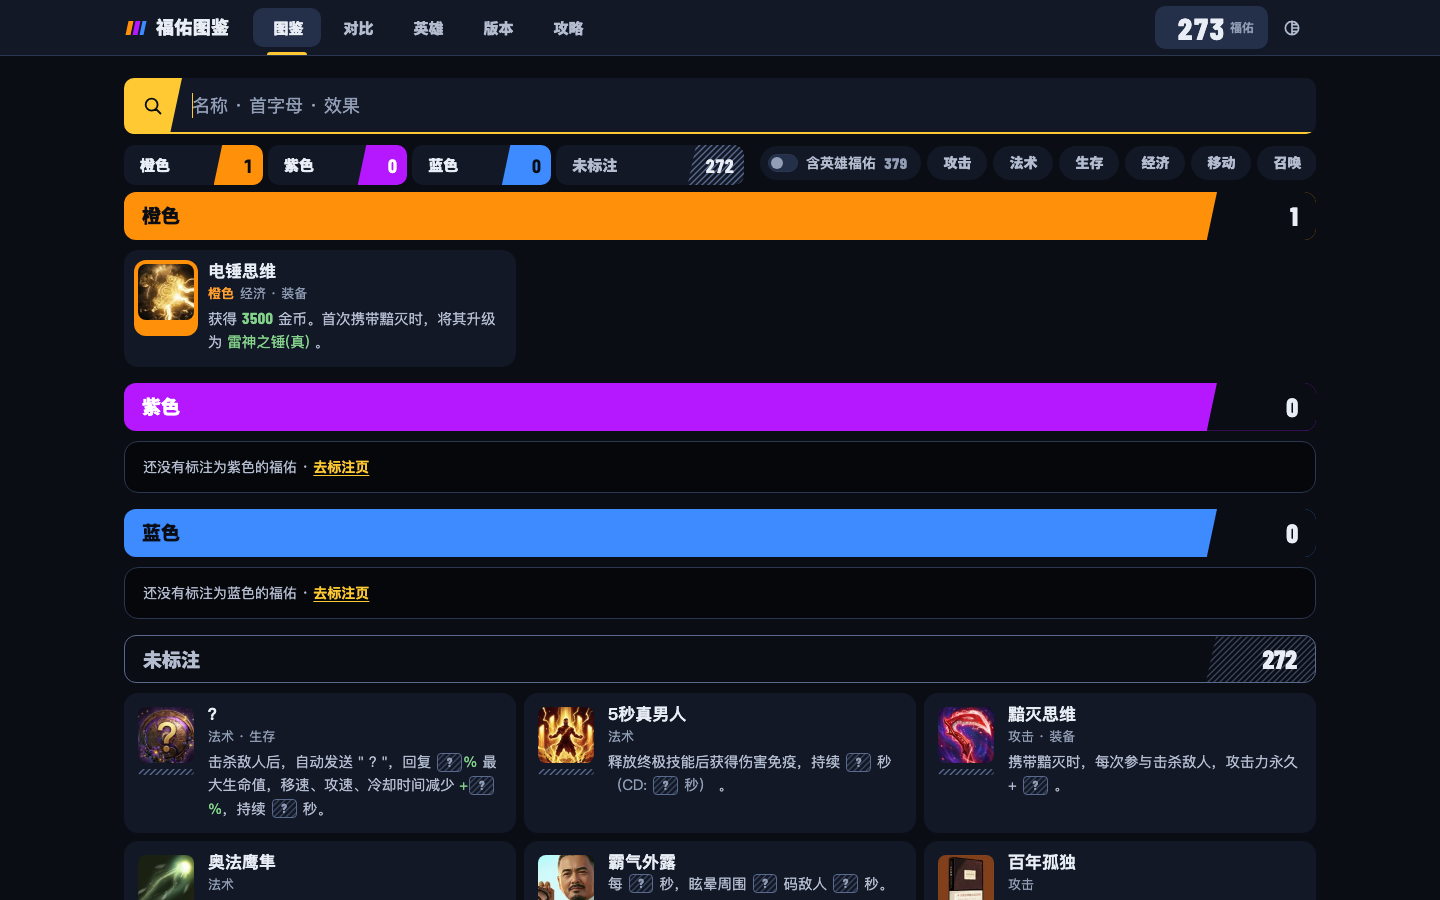
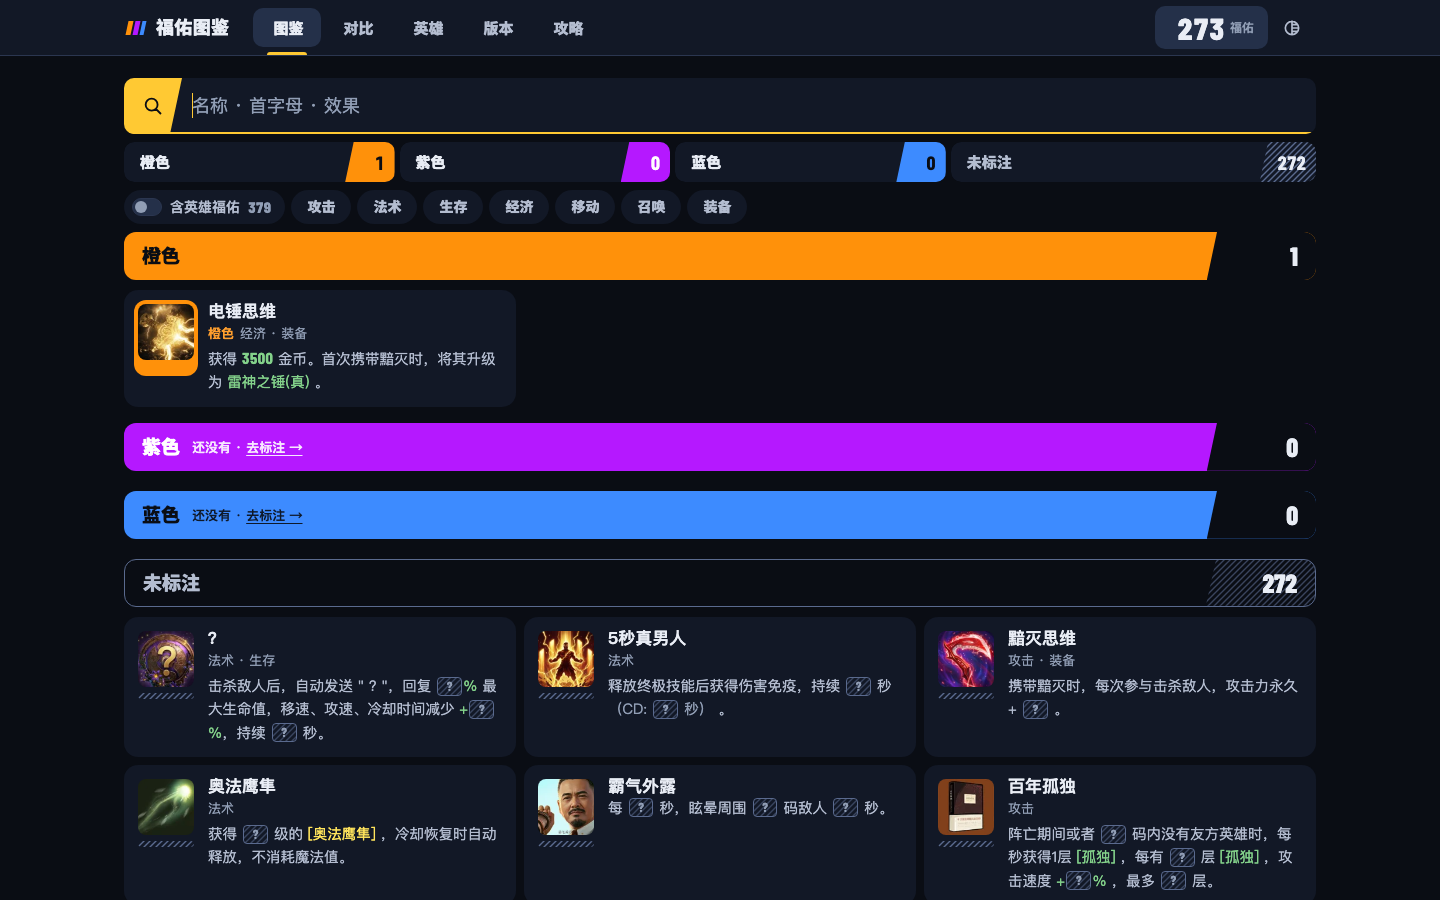
fix(ui): verdict batch — wrapping filter row, labeled locks, compact empty families, fold affordance
- Wide screens: tag strip wraps on its own row; nothing clips at 1024–1600.
- Compare: lock band shows the quality (team fill or hatched hollow) and its
  word (橙色 / 品质未标注); gold is only the stamp pill and outline.
- Empty quality families collapse to their header bar with an inline hint.
- 未标注 header shows 显示 30 / N with a chevron that expands the family.
- Recaptured review views, plus unlabeled-end, hero-toggle and
  hero-detail-lower captures.

diff --git a/src/styles/global.css b/src/styles/global.css
@@ -772,17 +772,13 @@ body {
   color: var(--on-gold);
   font-weight: 800;
 }
-/* Wide screens: team-bars and tag strip share one row across the content column. */
-@media (min-width: 1024px) {
-  .filters {
-    display: grid;
-    grid-template-columns: minmax(0, 620px) minmax(0, 1fr);
-    align-items: center;
-    gap: 0 16px;
-  }
-  .filters .tagstrip {
-    margin: 0;
-    padding: 4px 0 8px;
+/* Wide screens: nothing scrolls or clips; team-bars span the column, the strip wraps below. */
+@media (min-width: 721px) {
+  .tagstrip {
+    flex-wrap: wrap;
+    overflow: visible;
+    margin: 8px 0 0;
+    padding: 0 0 4px;
   }
 }
 
@@ -905,9 +901,6 @@ body {
   font-size: 19px;
   font-weight: 900;
 }
-.group-head span {
-  align-self: center;
-}
 /* The tally block keeps the 12° cap, inverse of the team color. */
 .group-head b {
   position: relative;
@@ -939,18 +932,43 @@ body {
   -webkit-mask: var(--hatch-mask) repeat;
   mask: var(--hatch-mask) repeat;
 }
+.group-name {
+  align-self: center;
+}
 .group-empty {
-  margin: 0;
-  padding: 14px 18px;
-  border-radius: 14px;
-  background: var(--hollow);
-  border: 1px solid var(--line);
-  color: var(--ink-2);
-  font-size: 14px;
+  align-self: center;
+  margin-left: 12px;
+  font-family: var(--font-body);
+  font-size: 13px;
+  font-weight: 700;
+  opacity: 0.9;
 }
 .group-empty a {
-  color: var(--gold-ink);
-  font-weight: 800;
+  color: inherit;
+  text-decoration-color: currentColor;
+}
+.group-fold {
+  align-self: center;
+  display: inline-flex;
+  align-items: center;
+  gap: 4px;
+  margin-left: 10px;
+  padding: 4px 8px 4px 10px;
+  border: 1px solid var(--line);
+  border-radius: 999px;
+  background: var(--panel);
+  color: var(--ink-2);
+  font: 700 13px var(--font-body);
+}
+.group-fold:hover {
+  color: var(--ink);
+  border-color: var(--ink-3);
+}
+.group-head b {
+  margin-left: auto;
+}
+.group-head:has(.group-empty:not([hidden])) {
+  margin-bottom: 0;
 }
 .slots > li[data-fold] {
   display: none;
@@ -1286,7 +1304,7 @@ body {
   position: absolute;
   inset: 0;
   z-index: -1;
-  background: var(--q, var(--gold));
+  background: var(--q, transparent);
   border-radius: 12px;
   visibility: hidden;
 }
@@ -1294,7 +1312,35 @@ body {
   visibility: visible;
 }
 .pick.is-locked .pick-head {
-  color: var(--on-q, var(--on-gold));
+  color: var(--on-q, var(--ink));
+  outline: 2px solid var(--gold);
+  outline-offset: 2px;
+  border-radius: 12px;
+}
+/* Unlabeled lock: the band is the hatched hollow, not a color that could read as a quality. */
+.pick:not([data-q]) .pick-lock {
+  border: 1px solid var(--hatch);
+}
+.pick:not([data-q]) .pick-lock::before {
+  content: '';
+  position: absolute;
+  inset: 0;
+  border-radius: 11px;
+  background: var(--hatch);
+  opacity: 0.7;
+  -webkit-mask: var(--hatch-mask) repeat;
+  mask: var(--hatch-mask) repeat;
+}
+.pick-quality {
+  font-size: 14px;
+  font-weight: 900;
+  white-space: nowrap;
+}
+.pick:not([data-q]) .pick-quality {
+  padding: 1px 8px;
+  border-radius: 6px;
+  background: var(--stage);
+  color: var(--ink);
 }
 .pick.is-locking .pick-lock {
   animation: lock-wipe 220ms var(--ease-expo) both;
@@ -1333,7 +1379,12 @@ body {
 .pick-stamp {
   display: inline-flex;
   align-items: center;
-  gap: 5px;
+  gap: 4px;
+  padding: 2px 9px 2px 7px;
+  border-radius: 999px;
+  background: var(--gold);
+  color: var(--on-gold);
+  font-size: 13px;
 }
 .pick-toggle {
   display: flex;

diff --git a/src/scripts/search-page.ts b/src/scripts/search-page.ts
@@ -41,6 +41,7 @@ export function initSearchPage(): void {
     tally: section.querySelector<HTMLElement>('[data-group-tally]')!,
     empty: section.querySelector<HTMLElement>('.group-empty')!,
     more: section.querySelector<HTMLButtonElement>('.group-more'),
+    fold: section.querySelector<HTMLButtonElement>('.group-fold'),
   }));
   const unfolded = new Set<string>();
 
@@ -79,9 +80,17 @@ export function initSearchPage(): void {
       }
       g.tally.textContent = String(shown);
       g.empty.hidden = shown > 0;
+      const folded = phone.matches && shown > FOLD_AT && !unfolded.has(g.id);
       if (g.more) {
-        g.more.hidden = !(phone.matches && shown > FOLD_AT && !unfolded.has(g.id));
+        g.more.hidden = !folded;
         g.more.querySelector('span')!.textContent = String(shown);
+      }
+      // The header says it is folded: 显示 30 / N with a chevron that expands it.
+      if (g.fold) {
+        g.fold.hidden = !folded;
+        g.fold.querySelector('[data-fold-shown]')!.textContent = String(Math.min(shown, FOLD_AT));
+        g.fold.querySelector('[data-fold-total]')!.textContent = String(shown);
+        g.fold.setAttribute('aria-label', `已折叠，显示 ${Math.min(shown, FOLD_AT)} / ${shown}，展开全部`);
       }
     }
   };
@@ -188,10 +197,12 @@ export function initSearchPage(): void {
   heroToggle?.addEventListener('click', flipHero);
   hint?.querySelector('button')?.addEventListener('click', flipHero);
   for (const g of groups) {
-    g.more?.addEventListener('click', () => {
+    const unfold = () => {
       unfolded.add(g.id);
       renderGroups();
-    });
+    };
+    g.more?.addEventListener('click', unfold);
+    g.fold?.addEventListener('click', unfold);
   }
   document.querySelectorAll<HTMLButtonElement>('[data-try]').forEach((b) =>
     b.addEventListener('click', () => {

diff --git a/src/scripts/compare-page.ts b/src/scripts/compare-page.ts
@@ -94,6 +94,7 @@ export function initComparePage(): void {
     clear: pick.querySelector<HTMLButtonElement>('.pick-clear')!,
     toggle: pick.querySelector<HTMLButtonElement>('.pick-toggle')!,
     repick: pick.querySelector<HTMLElement>('.pick-repick')!,
+    qword: pick.querySelector<HTMLElement>('.pick-quality')!,
   }));
 
   const close = (i: number) => {
@@ -102,7 +103,7 @@ export function initComparePage(): void {
 
   // LOCK-IN: the head wipes in the quality color and stamps 已锁定 with the pick number.
   const choose = (i: number, id: string | null, animate = true) => {
-    const { pick, input, card, idle, stamp, clear, toggle, repick } = parts[i];
+    const { pick, input, card, idle, stamp, clear, toggle, repick, qword } = parts[i];
     const r = id ? byId.get(id) : undefined;
     selected[i] = r ? r.id : null;
     card.replaceChildren();
@@ -124,6 +125,9 @@ export function initComparePage(): void {
     stamp.hidden = !r;
     clear.hidden = !r;
     repick.hidden = !r;
+    // Quality is spelled out on the band, never inferred from the lock color alone.
+    qword.hidden = !r;
+    qword.textContent = r ? qualityLabel(r.quality) || '品质未标注' : '';
     toggle.disabled = !r;
     pick.classList.remove('is-editing');
     close(i);
